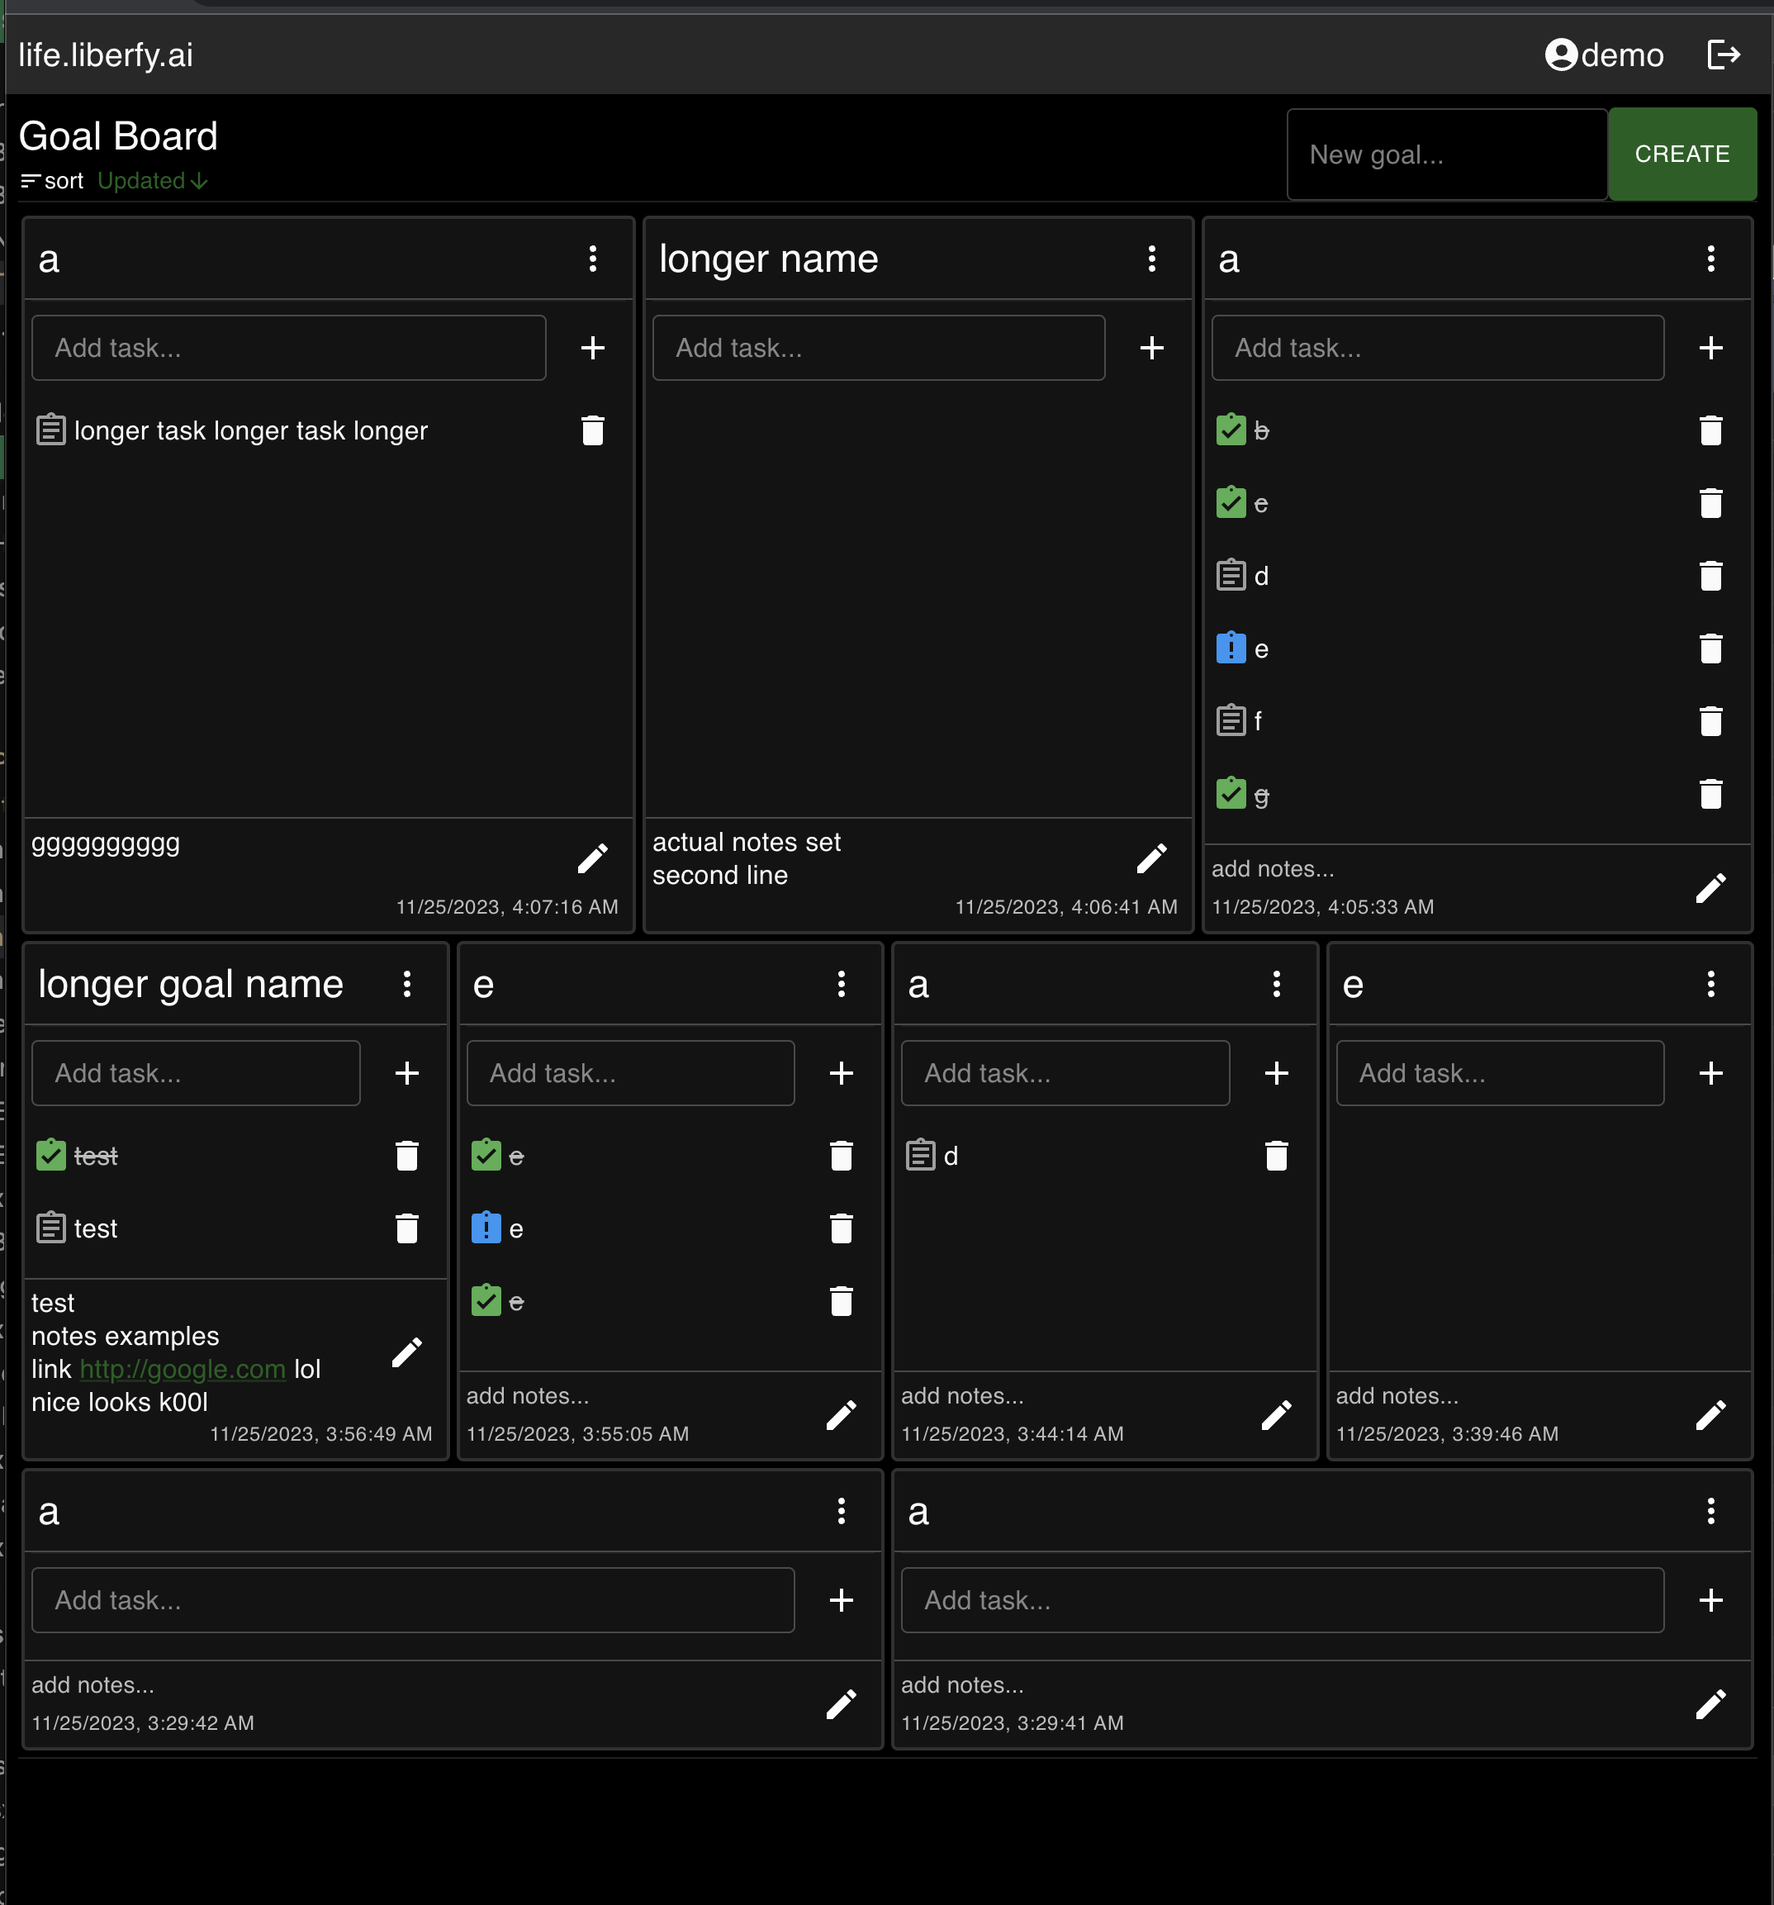
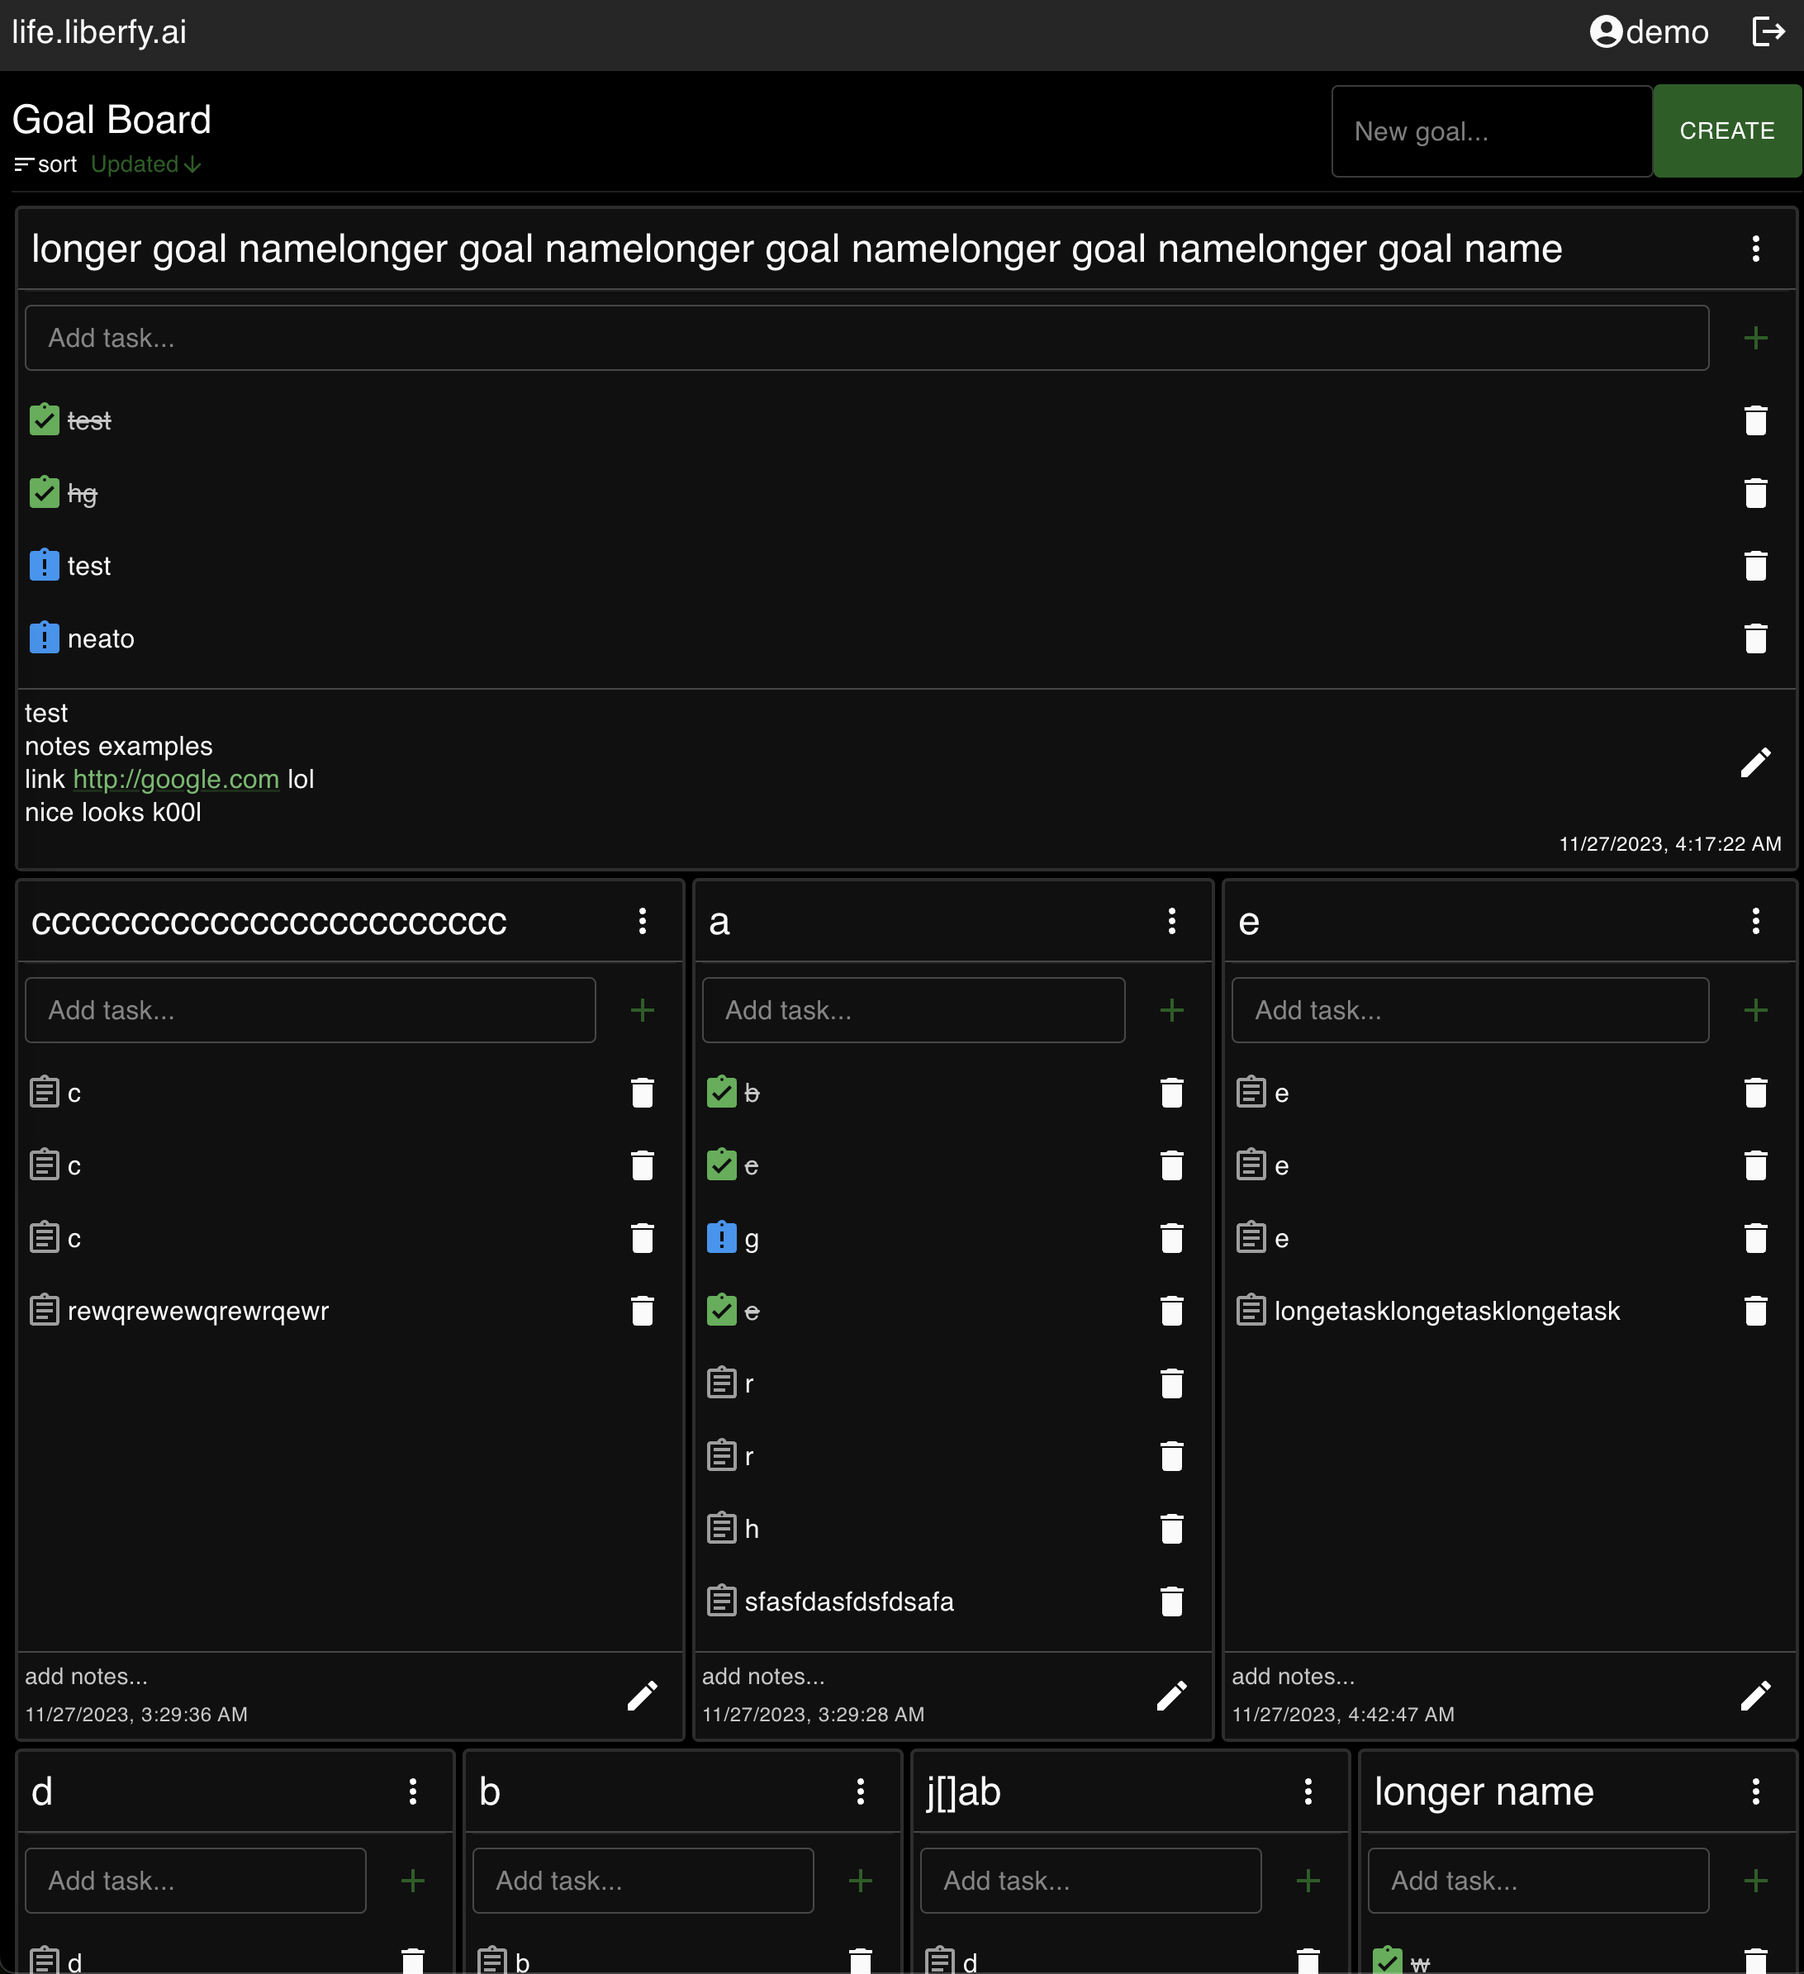
update plus csreenshots

Changed region(s): [[0.0, 0.0, 1.0, 1.0], [0.8734, 0.4059, 0.9046, 0.4371]]

diff --git a/frontend/src/pages/GoalsPage/SortButton.tsx b/frontend/src/pages/GoalsPage/SortButton.tsx
@@ -1,22 +1,22 @@
-import React from "react";
-import { Button, Typography, Box } from "@mui/material";
-import ArrowUpwardIcon from "@mui/icons-material/ArrowUpward";
-import ArrowDownwardIcon from "@mui/icons-material/ArrowDownward";
-import SortIcon from "@mui/icons-material/Sort"; // This is the default icon for 'Sort'
-import FilterListIcon from "@mui/icons-material/FilterList"; // New icon for 'Default'
-import { GoalOut } from "../../api";
-import theme from "../../theme";
+import React from 'react';
+import { Button, Typography, Box } from '@mui/material';
+import ArrowUpwardIcon from '@mui/icons-material/ArrowUpward';
+import ArrowDownwardIcon from '@mui/icons-material/ArrowDownward';
+import SortIcon from '@mui/icons-material/Sort'; // This is the default icon for 'Sort'
+import FilterListIcon from '@mui/icons-material/FilterList'; // New icon for 'Default'
+import { GoalOut } from '../../api';
+import theme from '../../app/theme';
 export interface SortIconMapping {
   icon: React.ElementType;
   label: string;
 }
 
 export enum SortOrder {
-  Default = "default",
-  UpdatedAsc = "updated asc",
-  UpdatedDesc = "updated desc",
-  AlphabeticalAsc = "a-z",
-  AlphabeticalDesc = "z-a",
+  Default = 'default',
+  UpdatedAsc = 'updated asc',
+  UpdatedDesc = 'updated desc',
+  AlphabeticalAsc = 'a-z',
+  AlphabeticalDesc = 'z-a',
 }
 
 export const convertOnTime = (goal: GoalOut): number => {
@@ -56,16 +56,16 @@ export const sortOrders: SortOrder[] = [
 export const sortIconAndLabel = (sortOrder: SortOrder): SortIconMapping => {
   switch (sortOrder) {
     case SortOrder.UpdatedAsc:
-      return { icon: ArrowUpwardIcon, label: "Updated" };
+      return { icon: ArrowUpwardIcon, label: 'Updated' };
     case SortOrder.UpdatedDesc:
-      return { icon: ArrowDownwardIcon, label: "Updated" };
+      return { icon: ArrowDownwardIcon, label: 'Updated' };
     case SortOrder.AlphabeticalAsc:
-      return { icon: ArrowDownwardIcon, label: "A-Z" };
+      return { icon: ArrowDownwardIcon, label: 'A-Z' };
     case SortOrder.AlphabeticalDesc:
-      return { icon: ArrowUpwardIcon, label: "A-Z" };
+      return { icon: ArrowUpwardIcon, label: 'A-Z' };
     case SortOrder.Default:
     default:
-      return { icon: FilterListIcon, label: "Default" }; // New icon for 'Default'
+      return { icon: FilterListIcon, label: 'Default' }; // New icon for 'Default'
   }
 };
 
@@ -80,38 +80,38 @@ const SortButton: React.FC<SortButtonProps> = ({ sortOrder, onSort }) => {
   return (
     <Box
       sx={{
-        display: "flex",
+        display: 'flex',
         m: 0,
         p: 0,
-        flexDirection: "row",
-        alignItems: "center",
-        justifyContent: "flex-start",
-        width: "100%",
+        flexDirection: 'row',
+        alignItems: 'center',
+        justifyContent: 'flex-start',
+        width: '100%',
       }}
     >
       {/* Static 'Sort' icon and text */}
       <Box
         sx={{
-          display: "flex",
-          alignItems: "center",
+          display: 'flex',
+          alignItems: 'center',
           m: 0,
           p: 0,
-          flexDirection: "row",
+          flexDirection: 'row',
           mr: 1,
         }}
       >
-        <SortIcon sx={{ fontSize: "1rem", m: 0 }} />
-        <Typography variant="subtitle2" sx={{ m: 0, p: 0, userSelect: "none" }}>
+        <SortIcon sx={{ fontSize: '1rem', m: 0 }} />
+        <Typography variant="subtitle2" sx={{ m: 0, p: 0, userSelect: 'none' }}>
           sort
         </Typography>
       </Box>
 
       {/* Clickable sort order and icon */}
-      <Button onClick={onSort} sx={{ textTransform: "none", m: 0, p: 0 }}>
+      <Button onClick={onSort} sx={{ textTransform: 'none', m: 0, p: 0 }}>
         <Typography
           variant="subtitle2"
           sx={{
-            userSelect: "none",
+            userSelect: 'none',
             m: 0,
             p: 0,
             color: theme.palette.primary.main,
@@ -119,7 +119,7 @@ const SortButton: React.FC<SortButtonProps> = ({ sortOrder, onSort }) => {
         >
           {label}
         </Typography>
-        <SortIconComponent sx={{ fontSize: "1rem", m: 0, p: 0 }} />
+        <SortIconComponent sx={{ fontSize: '1rem', m: 0, p: 0 }} />
       </Button>
     </Box>
   );

diff --git a/frontend/src/pages/ProfilePage/index.tsx b/frontend/src/pages/ProfilePage/index.tsx
@@ -7,6 +7,7 @@ import grey from '@mui/material/colors/grey';
 import Brightness4Icon from '@mui/icons-material/Brightness4';
 import { useNavigate, Link as RouterLink } from 'react-router-dom';
 import { useThemeContext } from '../../contexts/ThemeContext';
+import { Delete } from '@mui/icons-material';
 
 const ProfilePage: React.FC = () => {
   const auth = useAuth();
@@ -24,6 +25,19 @@ const ProfilePage: React.FC = () => {
       console.error('Error creating snapshot:', error);
       // Handle error appropriately
     }
+  };
+
+  const deleteSnapshot = async (uuid: string) => {
+    try {
+      const response = await apios.delete(`/snapshots/${uuid}`);
+      if (response?.status && response.status === 200) {
+        setSnapshots(snapshots.filter((s) => s.uuid !== uuid));
+      }
+    } catch (error) {
+      console.error('Error deleting snapshot:', error);
+      // Handle error appropriately
+    }
+    return false;
   };
 
   useEffect(() => {
@@ -94,7 +108,16 @@ const ProfilePage: React.FC = () => {
       </Box>
 
       {snapshots.map((snapshot) => (
-        <RouterLink to={`/snapshots/${snapshot.uuid}`}>
+        <RouterLink
+          to={`/snapshots/${snapshot.uuid}`}
+          key={snapshot.uuid}
+          style={{
+            display: 'flex',
+            flexDirection: 'row',
+            alignItems: 'center',
+            color: 'inherit',
+          }}
+        >
           <Typography
             key={snapshot.uuid}
             variant="body1"
@@ -102,6 +125,17 @@ const ProfilePage: React.FC = () => {
           >
             {snapshot.uuid}
           </Typography>
+          <IconButton
+            onClick={(e) => {
+              e.preventDefault();
+              e.stopPropagation();
+              deleteSnapshot(snapshot.uuid);
+            }}
+            sx={{ ml: 1 }}
+            aria-label="delete snapshot"
+          >
+            <Delete />
+          </IconButton>
         </RouterLink>
       ))}
     </Box>

diff --git a/frontend/src/contexts/ThemeContext.tsx b/frontend/src/contexts/ThemeContext.tsx
@@ -4,11 +4,11 @@ import React, {
   useState,
   useMemo,
   useEffect,
-} from "react";
-import { ThemeProvider as MuiThemeProvider, Theme } from "@mui/material/styles";
-import { darkTheme, lightTheme } from "../theme";
+} from 'react';
+import { ThemeProvider as MuiThemeProvider, Theme } from '@mui/material/styles';
+import { darkTheme, lightTheme } from '../app/theme';
 
-type DarkLight = "dark" | "light";
+type DarkLight = 'dark' | 'light';
 
 interface ThemeContextType {
   currentTheme: DarkLight;
@@ -21,7 +21,7 @@ const ThemeContext = createContext<ThemeContextType | undefined>(undefined);
 export const useThemeContext = () => {
   const context = useContext(ThemeContext);
   if (!context) {
-    throw new Error("useThemeContext must be used within a ThemeProvider");
+    throw new Error('useThemeContext must be used within a ThemeProvider');
   }
   return context;
 };
@@ -32,16 +32,16 @@ interface ThemeProviderProps {
 }
 
 export const ThemeProvider: React.FC<ThemeProviderProps> = ({ children }) => {
-  const locTheme = (localStorage.getItem("theme") || "dark") as DarkLight;
+  const locTheme = (localStorage.getItem('theme') || 'dark') as DarkLight;
   const [currentTheme, setCurrentTheme] = useState<DarkLight>(locTheme);
 
   const toggleTheme = () => {
-    const nextTheme = currentTheme === "dark" ? "light" : "dark";
-    localStorage.setItem("theme", nextTheme);
+    const nextTheme = currentTheme === 'dark' ? 'light' : 'dark';
+    localStorage.setItem('theme', nextTheme);
     setCurrentTheme(nextTheme);
   };
 
-  const theme = currentTheme === "dark" ? darkTheme : lightTheme;
+  const theme = currentTheme === 'dark' ? darkTheme : lightTheme;
 
   return (
     <ThemeContext.Provider value={{ theme, currentTheme, toggleTheme }}>

diff --git a/frontend/src/app/App.tsx b/frontend/src/app/App.tsx
@@ -1,13 +1,13 @@
 import { BrowserRouter as Router, Route, Routes } from 'react-router-dom';
 import { CssBaseline } from '@mui/material';
-import { AuthProvider } from './contexts/AuthContext';
-import { ThemeProvider } from './contexts/ThemeContext';
+import { AuthProvider } from '../contexts/AuthContext';
+import { ThemeProvider } from '../contexts/ThemeContext';
 import Container from '@mui/material/Container';
-import LogRegPage from './pages/LogRegPage';
-import GoalsPage from './pages/GoalsPage';
-import ProfilePage from './pages/ProfilePage';
-import NavBar from './components/NavBar';
-import SnapshotGoalBoard from './pages/SnapPage';
+import LogRegPage from '../pages/LogRegPage';
+import GoalsPage from '../pages/GoalsPage';
+import ProfilePage from '../pages/ProfilePage';
+import NavBar from '../components/NavBar';
+import SnapshotGoalBoard from '../pages/SnapPage';
 
 function App() {
   return (

diff --git a/frontend/src/pages/GoalsPage/GoalBoard.tsx b/frontend/src/pages/GoalsPage/GoalBoard.tsx
@@ -87,11 +87,10 @@ const GoalBoard: React.FC<GoalBoardProps> = ({
           sx={{
             display: 'flex',
             flexDirection: 'column',
-            justifyContent: 'space-between',
+            minHeight: '60px',
             m: 0,
             flexGrow: 1,
             p: 0,
-            height: '100%',
           }}
         >
           <Typography
@@ -116,6 +115,7 @@ const GoalBoard: React.FC<GoalBoardProps> = ({
               alignItems: 'center',
               m: 0,
               p: 0,
+              mb: 1,
             }}
           >
             <TextField

diff --git a/frontend/src/pages/GoalsPage/GoalItem/index.tsx b/frontend/src/pages/GoalsPage/GoalItem/index.tsx
@@ -4,7 +4,7 @@ import { GoalOut, TaskStatus } from '../../../api';
 import GoalHeader from './GoalHeader';
 import GoalTasks from './GoalTasks';
 import GoalNotes from './GoalNotes';
-import { actionAddTaskToGoal, actionDeleteTask } from '../actions';
+import { actionAddTaskToGoal, actionDeleteTask } from '../../../utils/actions';
 import { useThemeContext } from '../../../contexts/ThemeContext';
 import apios from '../../../utils/apios';
 import { getTaskStatus } from '../../../utils/helpers';

diff --git a/frontend/src/pages/SnapPage/index.tsx b/frontend/src/pages/SnapPage/index.tsx
@@ -33,13 +33,11 @@ const SnapshotGoalBoard: React.FC = () => {
   }
 
   return (
-    <Container maxWidth="xl" sx={{ m: 'auto', p: 0, backgroundColor: 'black' }}>
-      <GoalBoard
-        goals={snapshotGoals}
-        setGoals={setSnapshotGoals}
-        isSnapshot={true}
-      />
-    </Container>
+    <GoalBoard
+      goals={snapshotGoals}
+      setGoals={setSnapshotGoals}
+      isSnapshot={true}
+    />
   );
 };
 

diff --git a/frontend/src/pages/GoalsPage/GoalItem/GoalTasks.tsx b/frontend/src/pages/GoalsPage/GoalItem/GoalTasks.tsx
@@ -3,7 +3,7 @@ import { Box, TextField, IconButton, Divider } from '@mui/material';
 import AddIcon from '@mui/icons-material/Add';
 import { GoalTaskOut, GoalOut } from '../../../api';
 import GoalTaskItem from './GoalTaskItem'; // Update the import statement
-import theme from '../../../theme';
+import theme from '../../../app/theme';
 
 export interface GoalTasksProps {
   newTaskText: string;

diff --git a/frontend/src/app/App.test.tsx b/frontend/src/app/App.test.tsx
@@ -1,7 +1,7 @@
-import { render, screen } from "@testing-library/react";
-import App from "./App";
+import { render, screen } from '@testing-library/react';
+import App from './App';
 
-test("renders learn react link", () => {
+test('renders learn react link', () => {
   render(<App />);
   const linkElement = screen.getByText(/learn react/i);
   expect(linkElement).toBeInTheDocument();

diff --git a/frontend/src/pages/GoalsPage/GoalItem/GoalTaskItem.tsx b/frontend/src/pages/GoalsPage/GoalItem/GoalTaskItem.tsx
@@ -12,7 +12,7 @@ import green from '@mui/material/colors/green';
 import grey from '@mui/material/colors/grey';
 import { useThemeContext } from '../../../contexts/ThemeContext';
 
-import theme from '../../../theme';
+import theme from '../../../app/theme';
 const statusIconMap = {
   [TaskStatus.NOT_STARTED]: (
     <CircleOutlined sx={{ color: grey[500], mr: 0.25 }} />

diff --git a/frontend/src/pages/GoalsPage/GoalBoardElem.tsx b/frontend/src/pages/GoalsPage/GoalBoardElem.tsx
@@ -2,7 +2,7 @@ import React from 'react';
 import { Box, Divider } from '@mui/material';
 import { GoalOut } from '../../api';
 import GoalItem from './GoalItem';
-import { actionUpdateGoal, actihandleGoalDelete } from './actions';
+import { actionUpdateGoal, actihandleGoalDelete } from '../../utils/actions';
 
 interface GoalBoardElemProps {
   goals: GoalOut[];

diff --git a/frontend/src/utils/actions.ts b/frontend/src/utils/actions.ts
@@ -1,6 +1,6 @@
 import React from 'react';
-import apios from '../../utils/apios';
-import { GoalOut, GoalTaskOut, TaskStatus } from '../../api';
+import apios from './apios';
+import { GoalOut, GoalTaskOut, TaskStatus } from '../api';
 
 export const actionUpdateGoal = async (
   setGoals: React.Dispatch<React.SetStateAction<GoalOut[]>>,
